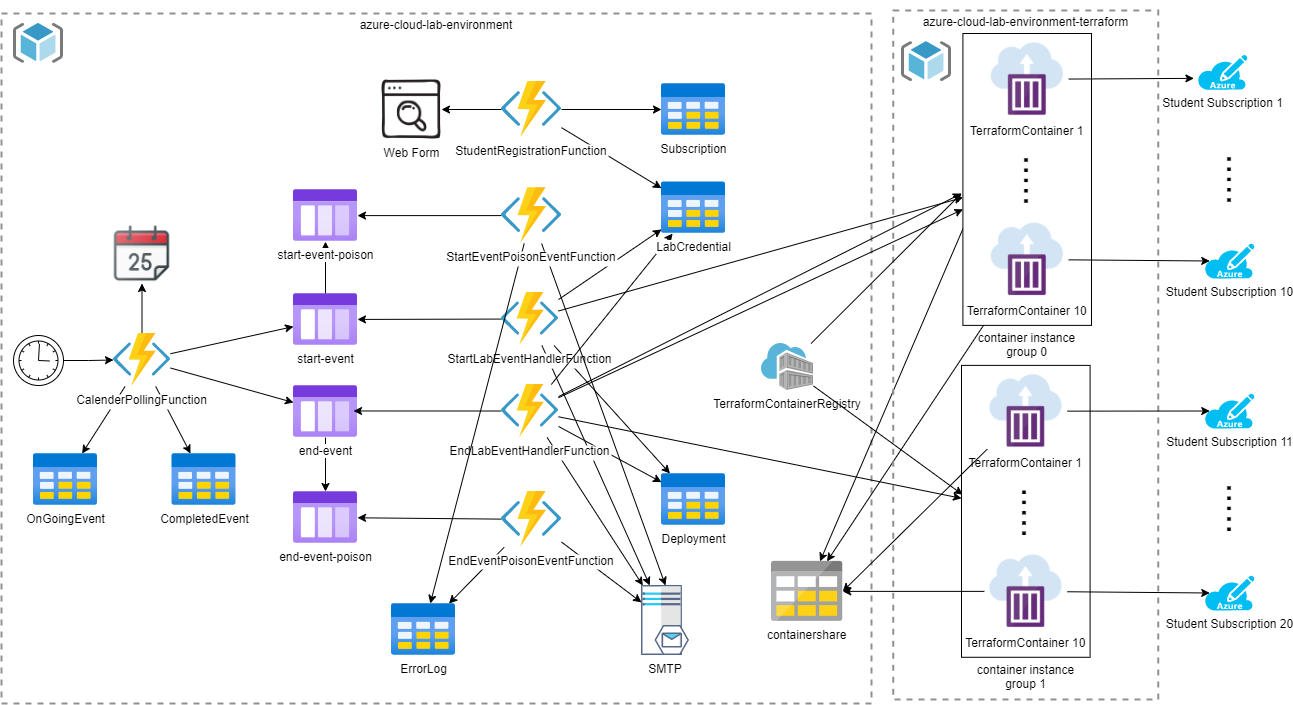
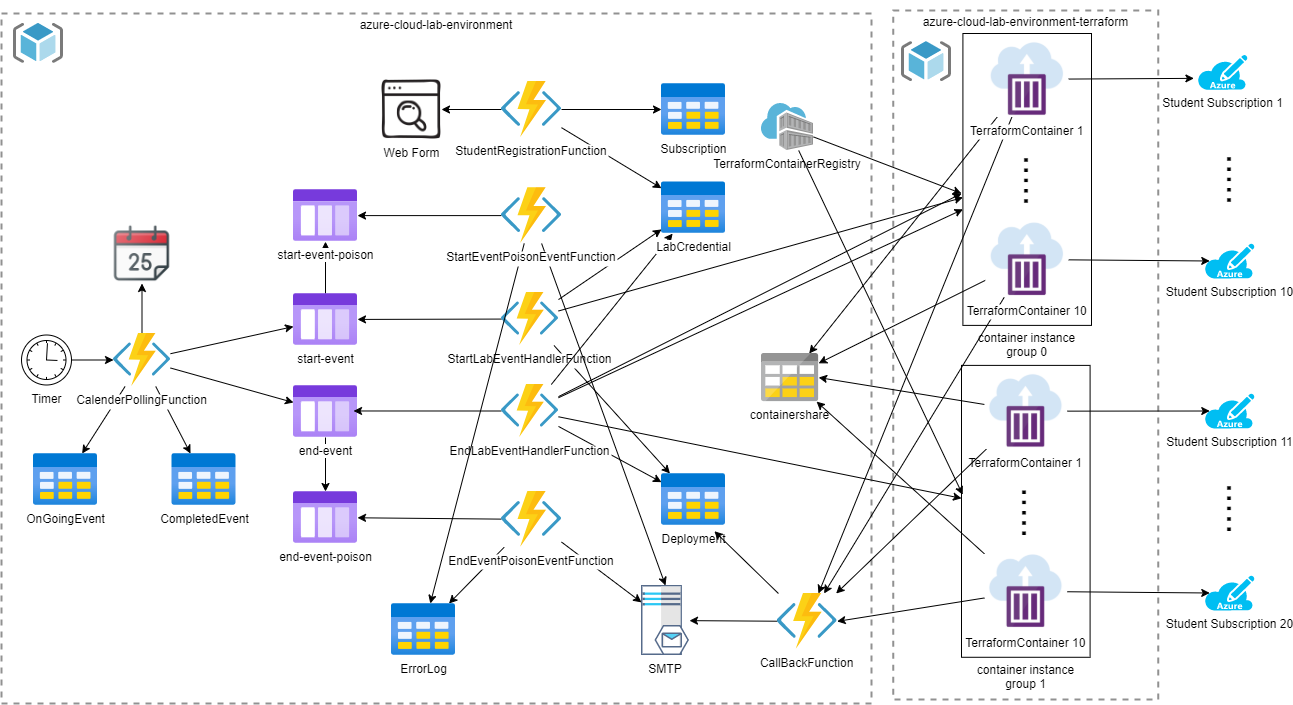
Renaming.

diff --git a/AzureCloudLabEnvironmentFunctionApp/LabEventFunction.cs b/AzureCloudLabEnvironmentFunctionApp/LabEventFunction.cs
@@ -26,11 +26,7 @@ namespace AzureCloudLabEnvironment
             Lab lab = Lab.FromJson(ev.Context);
             log.LogInformation($"StartLabEventHandlerFunction Queue trigger function processed: {ev} => {lab}");
             if (lab == null) return;
-            lab.Name = ev.Title;
-            lab.RepeatTimes = ev.RepeatTimes;
-            lab.Branch = lab.Branch.Replace("###RepeatTimes###", lab.RepeatTimes.ToString());
-            log.LogInformation($"Start the lab: {lab}");
-            await RunClassInfrastructure(log, executionContext, lab, true);
+            await RunClassInfrastructure(log, executionContext, ev,lab, true);
         }
 
         [FunctionName(nameof(EndLabEventHandlerFunction))]
@@ -39,15 +35,16 @@ namespace AzureCloudLabEnvironment
             Lab lab = Lab.FromJson(ev.Context);
             log.LogInformation($"EndLabEventHandlerFunction Queue trigger function processed: {ev} => {lab}");
             if (lab == null) return;
-            lab.Name = ev.Title;
-            lab.RepeatTimes = ev.RepeatTimes;
-            lab.Branch = lab.Branch.Replace("###RepeatTimes###", lab.RepeatTimes.ToString());
-            log.LogInformation($"End the lab: {lab}");
-            await RunClassInfrastructure(log, executionContext, lab, false);
+            await RunClassInfrastructure(log, executionContext, ev, lab, false);
         }
 
-        private static async Task RunClassInfrastructure(ILogger log, ExecutionContext context, Lab lab, bool isCreate)
+        private static async Task RunClassInfrastructure(ILogger log, ExecutionContext context, Event ev, Lab lab, bool isCreate)
         {
+            lab.Name = ev.Title;
+            lab.RepeatedTimes = ev.RepeatTimes;
+            lab.Branch = lab.Branch.Replace("###RepeatedTimes###", lab.RepeatedTimes.ToString());
+            var action = isCreate ? "Create" : "Delete";
+            log.LogInformation($"{action} the lab: {lab}");
 
             var config = new Config(context);
             var labCredentialDao = new LabCredentialDao(config, log);
@@ -58,7 +55,7 @@ namespace AzureCloudLabEnvironment
             {
                 {"LAB", lab.Name},
                 {"BRANCH", lab.Branch},
-                {"REPEAT_TIMES", lab.RepeatTimes.ToString()},
+                {"REPEAT_TIMES", lab.RepeatedTimes.ToString()},
             };
 
             var subStudentGroup = students.Chunk(10).ToList();
@@ -96,7 +93,7 @@ namespace AzureCloudLabEnvironment
             }
             log.LogInformation($"Create New container group'{containerGroupName}'");
 
-            var scriptUrl = lab.TerraformRepo.Replace("github.com", "raw.githubusercontent.com") + "/" + lab.Branch + "/" + (isCreate
+            var scriptUrl = lab.GitHubRepo.Replace("github.com", "raw.githubusercontent.com") + "/" + lab.Branch + "/" + (isCreate
                  ? "deploy.sh"
                  : "undeploy.sh");
 
@@ -124,8 +121,8 @@ namespace AzureCloudLabEnvironment
                     Name = lab.Name,
                     Branch = lab.Branch,
                     Email = labCredential.Email,
-                    RepeatTimes = lab.RepeatTimes ?? 0,
-                    TerraformRepo = lab.TerraformRepo,
+                    RepeatedTimes = lab.RepeatedTimes ?? 0,
+                    GitHubRepo = lab.GitHubRepo,
                     Status = "CREATING"
                 };
                 var token = deployment.GetToken(config.GetConfig(Config.Key.Salt));

diff --git a/AzureCloudLabEnvironmentFunctionApp/CallBackFunction.cs b/AzureCloudLabEnvironmentFunctionApp/CallBackFunction.cs
@@ -46,12 +46,12 @@ Azure Cloud Lab Environment
                 var emailMessage = new EmailMessage
                 {
                     To = deployment.Email,
-                    Subject = $"Your lab deployment of {deployment.Name} session {deployment.RepeatTimes} is ready",
+                    Subject = $"Your lab deployment of {deployment.Name} session {deployment.RepeatedTimes} is ready",
                     Body = body
                 };
                 var emailClient = new Email(config, log);
                 emailClient.Send(emailMessage, new[] { Email.StringToAttachment(output, "output.txt", "text/plain") });
-                log.LogInformation($"Sent CREATED Email to {deployment.Email} -> {deployment.Name} - {deployment.RepeatTimes}");
+                log.LogInformation($"Sent CREATED Email to {deployment.Email} -> {deployment.Name} - {deployment.RepeatedTimes}");
 
                 return Task.FromResult<IActionResult>(new OkObjectResult(output));
             }
@@ -70,12 +70,12 @@ Azure Cloud Lab Environment
                 var emailMessage = new EmailMessage
                 {
                     To = deployment.Email,
-                    Subject = $"Your lab deployment of {deployment.Name} session {deployment.RepeatTimes} has deleted.",
+                    Subject = $"Your lab deployment of {deployment.Name} session {deployment.RepeatedTimes} has deleted.",
                     Body = body
                 };
                 var emailClient = new Email(config, log);
                 emailClient.Send(emailMessage, null);
-                log.LogInformation($"Sent DELETED Email to {deployment.Email} -> {deployment.Name} - {deployment.RepeatTimes}");
+                log.LogInformation($"Sent DELETED Email to {deployment.Email} -> {deployment.Name} - {deployment.RepeatedTimes}");
 
                 return Task.FromResult<IActionResult>(new OkObjectResult(deployment));
             }

diff --git a/AzureCloudLabEnvironmentFunctionApp/Model/Deployment.cs b/AzureCloudLabEnvironmentFunctionApp/Model/Deployment.cs
@@ -10,9 +10,9 @@ namespace AzureCloudLabEnvironment.Model
     {
         public string Email { get; set; }
         public string Name { get; set; }
-        public string TerraformRepo { get; set; }
+        public string GitHubRepo { get; set; }
         public string Branch { get; set; }
-        public int RepeatTimes { get; set; }
+        public int RepeatedTimes { get; set; }
         public string Output { get; set; }
         public string Status { get; set; }
 
@@ -23,12 +23,12 @@ namespace AzureCloudLabEnvironment.Model
 
         public override string ToString()
         {
-            return $"{Name}[{RepeatTimes}] {Branch} -> {Email}";
+            return $"{Name}[{RepeatedTimes}] {Branch} -> {Email}";
         }
 
         public string GetToken(string salt)
         {
-            var tmpSource = salt + Name + Email + Branch + RepeatTimes;
+            var tmpSource = salt + Name + Email + Branch + RepeatedTimes;
             string ComputeSha256Hash(string rawData)
             {
                 // Create a SHA256   

diff --git a/AzureCloudLabEnvironmentFunctionApp/StudentRegistrationFunction.cs b/AzureCloudLabEnvironmentFunctionApp/StudentRegistrationFunction.cs
@@ -38,7 +38,6 @@ namespace AzureCloudLabEnvironment
 
             if (req.Method == "GET")
             {
-
                 if (!req.Query.ContainsKey("email") || !req.Query.ContainsKey("lab"))
                 {
                     return GetContentResult("Invalid Url and it should contain lab and email!");
@@ -63,7 +62,8 @@ namespace AzureCloudLabEnvironment
                     return GetContentResult(form);
                 }
             }
-            else if (req.Method == "POST")
+
+            if (req.Method == "POST")
             {
                 log.LogInformation("POST Request");
                 string lab = req.Form["lab"];

diff --git a/AzureCloudLabEnvironmentFunctionApp/Model/Lab.cs b/AzureCloudLabEnvironmentFunctionApp/Model/Lab.cs
@@ -7,13 +7,13 @@ namespace AzureCloudLabEnvironment.Model
     public class Lab
     {
         public string Name { get; set; }
-        public string TerraformRepo { get; set; }
+        public string GitHubRepo { get; set; }
         public string Branch { get; set; }
 
-        public int? RepeatTimes { get; set; }
+        public int? RepeatedTimes { get; set; }
         public override string ToString()
         {
-            return $"{Name}({RepeatTimes})->{TerraformRepo}({Branch})";
+            return $"{Name}({RepeatedTimes})->{GitHubRepo}({Branch})";
         }
         public static Lab FromJson(string jsonString)
         {

diff --git a/AzureCloudLabEnvironmentFunctionApp/PoisonEventFunction.cs b/AzureCloudLabEnvironmentFunctionApp/PoisonEventFunction.cs
@@ -1,5 +1,3 @@
-using System;
-using System.Globalization;
 using AzureCloudLabEnvironment.Dao;
 using AzureCloudLabEnvironment.Helper;
 using AzureCloudLabEnvironment.Model;
